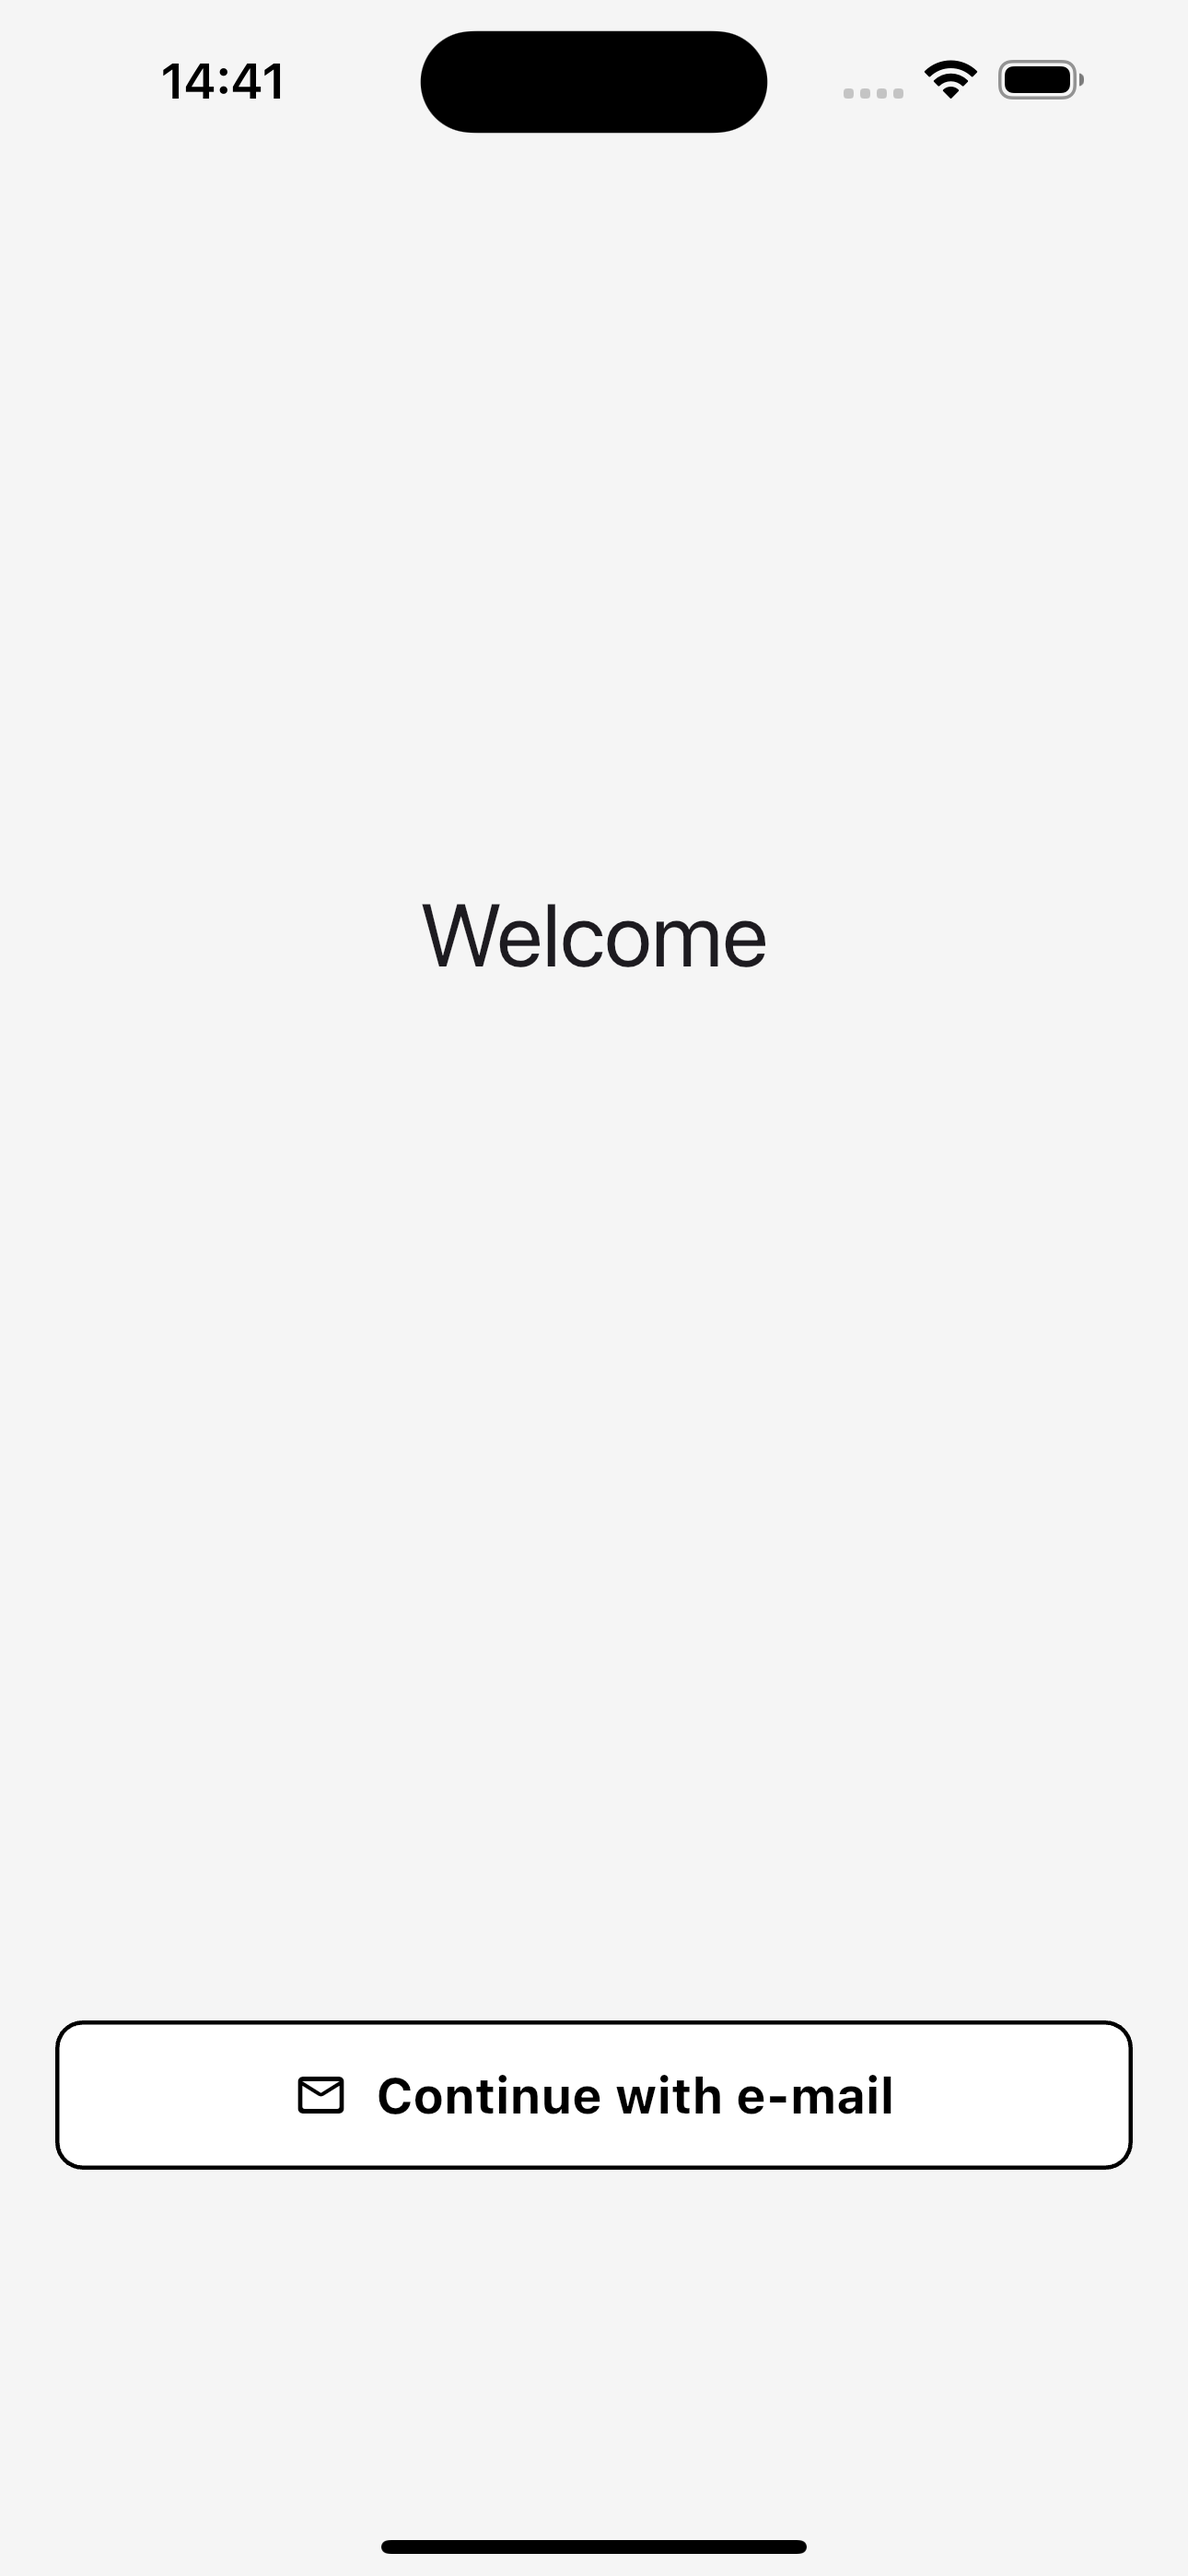
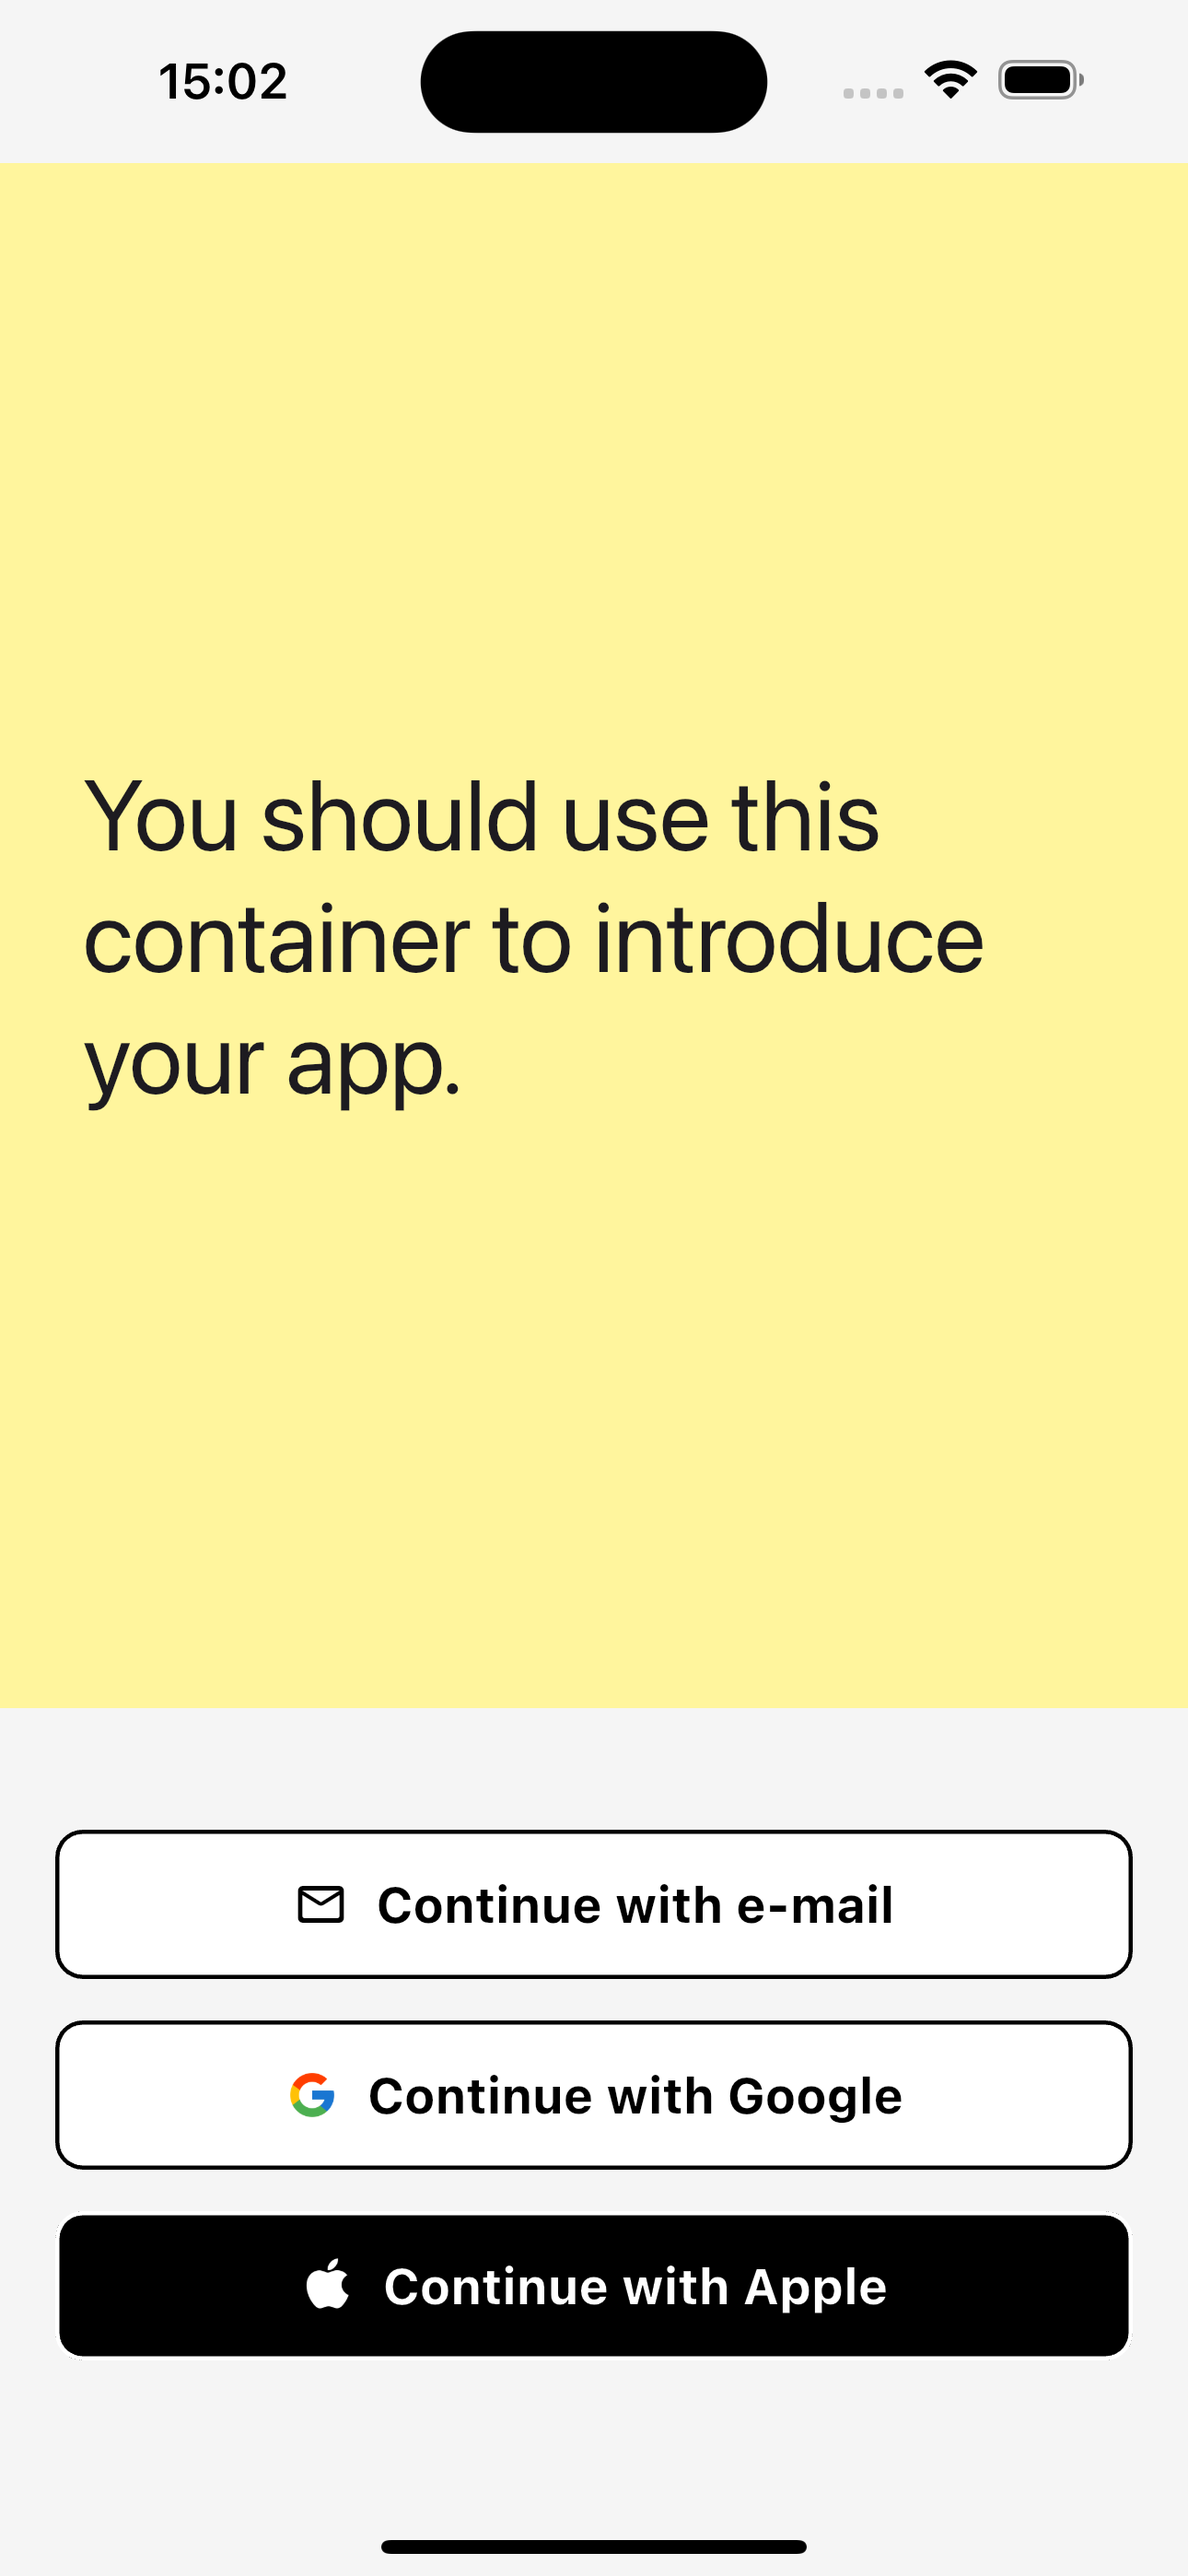
replace with a better screenshot

diff --git a/example/lib/main.dart b/example/lib/main.dart
@@ -26,10 +26,14 @@ class ExampleApp extends StatelessWidget {
           // Use 'fluo' to get an access token as below:
           // final accessToken = await fluo.getAccessToken();
         },
-        child: Center(
+        child: Container(
+          color: Colors.yellow.shade200,
+          width: double.infinity,
+          padding: const EdgeInsets.all(30.0),
+          alignment: Alignment.center,
           child: Text(
-            'Welcome',
-            style: Theme.of(context).textTheme.headlineLarge,
+            'You should use this container to introduce your app.',
+            style: Theme.of(context).textTheme.displaySmall,
           ),
         ),
       ),

diff --git a/README.md b/README.md
@@ -2,7 +2,7 @@
 
 **User Onboarding for Flutter**
 
-<img src="assets/images/screenshot.png" alt="Fluo Onboarding" width="200">
+<img src="assets/images/screenshot.png" alt="Fluo Onboarding" width="300">
 
 ## Getting started
 
